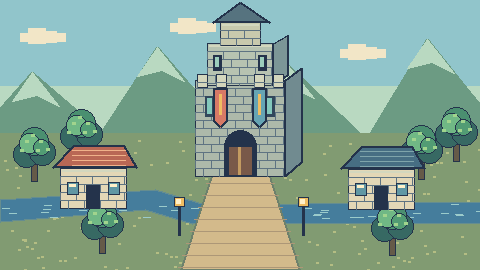
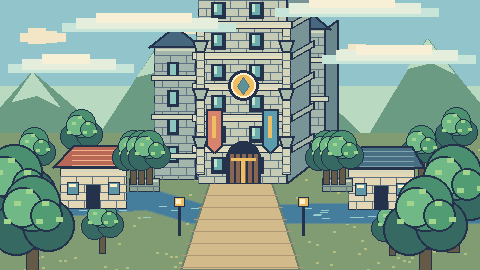
feat: polish monumental tower and queue accepted minigame actions

diff --git a/src/tower/PixelScene.tsx b/src/tower/PixelScene.tsx
@@ -1,9 +1,9 @@
-import {useEffect,useRef} from 'react';
+import {useEffect,useRef,useState} from 'react';
 import './pixel-scene.css';
 const root=`${import.meta.env.BASE_URL}assets/tower/`;
 export const TOWER_ART_URL=root;
 const identities=['moss','pip','fern','terra','flint','zephyr','rowan','warden'];
-function identity(id?:string){if(!id)return 'moss';if(identities.includes(id))return id;if(id==='hero'||id==='male')return 'hero-male';if(id==='female')return 'hero-female';if(id.startsWith('hero-'))return id;const n=Number(id.match(/\d+/)?.[0]??1);return id.includes('boss')?'warden':identities[(n-1)%identities.length]??'moss';}
+function identity(id?:string){if(!id)return 'moss';const aliases:Record<string,string>={'trainer-1':'moss','trainer-2':'pip','trainer-3':'fern','leader-leg':'terra','leader-arm':'flint','leader-back':'zephyr','rival':'rowan'};if(aliases[id])return aliases[id];if(identities.includes(id))return id;if(id==='hero'||id==='male')return 'hero-male';if(id==='female')return 'hero-female';if(id.startsWith('hero-'))return id;const n=Number(id.match(/\d+/)?.[0]??1);return id.includes('boss')?'warden':identities[(n-1)%identities.length]??'moss';}
 export function PixelCharacter({id,hero,variant='front',className=''}:{id?:string;hero?:'male'|'female';variant?:'front'|'back'|'title';className?:string}){const who=hero?`hero-${hero}`:identity(id);const view=variant==='back'&&who.startsWith('hero-')?'back':'front';return <img className={`pixel-character ${className}`} src={`${root}${who}-${view}-still.png`} alt={hero?`${hero} adventurer`:who} draggable={false}/>;}
 export function PixelIcon({name,className=''}:{name:string;className?:string}){const names=['leg','arm','back','coin','potion','shield','star','tower','bag','settings','play','pause'];return <img className={`pixel-icon ${className}`} src={`${root}icon-${names.includes(name)?name:'star'}.png`} alt="" aria-hidden="true"/>;}
 const definitions=[
@@ -15,8 +15,13 @@ export const MINIGAME_SCENES=Object.fromEntries(definitions.map(([id,title,instr
 type Draw=CanvasRenderingContext2D;
 const colors={ink:'#24334b',cream:'#fff0c9',gold:'#efbd62',mint:'#83c8ae',stone:'#a5b0ad',shadow:'#637c87'};
 function rect(g:Draw,x:number,y:number,w:number,h:number,c:string){g.fillStyle=c;g.fillRect(Math.round(x),Math.round(y),Math.round(w),Math.round(h));}
-function line(g:Draw,points:number[][],c:string,width=2){g.strokeStyle=c;g.lineWidth=width;g.beginPath();points.forEach(([x,y],i)=>i?g.lineTo(Math.round(x),Math.round(y)):g.moveTo(Math.round(x),Math.round(y)));g.stroke();}
-function shape(g:Draw,p:number[][],c:string){g.beginPath();p.forEach(([x,y],i)=>i?g.lineTo(Math.round(x),Math.round(y)):g.moveTo(Math.round(x),Math.round(y)));g.closePath();g.fillStyle=c;g.fill();g.strokeStyle=colors.ink;g.lineWidth=2;g.stroke();}
+function line(g:Draw,points:number[][],c:string,width=2){
+ for(let k=1;k<points.length;k++){let x=Math.round(points[k-1][0]),y=Math.round(points[k-1][1]);const x1=Math.round(points[k][0]),y1=Math.round(points[k][1]),dx=Math.abs(x1-x),sx=x<x1?1:-1,dy=-Math.abs(y1-y),sy=y<y1?1:-1;let error=dx+dy;for(let guard=0;guard<2000;guard++){rect(g,x-Math.floor(width/2),y-Math.floor(width/2),width,width,c);if(x===x1&&y===y1)break;const e=2*error;if(e>=dy){error+=dy;x+=sx;}if(e<=dx){error+=dx;y+=sy;}}}
+}
+function shape(g:Draw,p:number[][],c:string){
+ const low=Math.ceil(Math.min(...p.map(v=>v[1]))),high=Math.floor(Math.max(...p.map(v=>v[1])));for(let y=low;y<=high;y++){const xs:number[]=[];for(let i=0;i<p.length;i++){const a=p[i],b=p[(i+1)%p.length];if((a[1]<=y&&b[1]>y)||(b[1]<=y&&a[1]>y))xs.push(a[0]+(y-a[1])*(b[0]-a[0])/(b[1]-a[1]));}xs.sort((a,b)=>a-b);for(let i=0;i+1<xs.length;i+=2)rect(g,Math.ceil(xs[i]),y,Math.floor(xs[i+1])-Math.ceil(xs[i])+1,1,c);}line(g,[...p,p[0]],colors.ink,2);
+}
+function circle(g:Draw,x:number,y:number,r:number,c:string){for(let dy=-r;dy<=r;dy++){const dx=Math.floor(Math.sqrt(r*r-dy*dy));rect(g,x-dx,y+dy,dx*2+1,1,c);}}
 function block(g:Draw,x:number,y:number,w=32,h=24,c=colors.stone){rect(g,x,y,w,h,colors.ink);rect(g,x+2,y+2,w-4,h-4,c);rect(g,x+3,y+3,w-6,2,colors.cream);rect(g,x+3,y+h-5,w-6,3,colors.shadow);}
 function gem(g:Draw,x:number,y:number,s=16,c=colors.mint){shape(g,[[x,y-s],[x+s*.6,y],[x,y+s],[x-s*.6,y]],c);line(g,[[x,y-s+3],[x-3,y],[x,y+s-3]],colors.cream,2);}
 function flower(g:Draw,x:number,y:number,h:number,c=colors.gold){rect(g,x,y-h,2,h,'#49796d');for(const [dx,dy]of [[-4,0],[4,0],[0,-4],[0,4]])rect(g,x+dx-2,y-h+dy-2,5,5,c);rect(g,x-1,y-h-1,3,3,colors.cream);}
@@ -37,7 +42,7 @@ function drawMini(g:Draw,id:string,progress:number,target:number,side:string|und
  case 'assisted-lunge':rect(g,0,175,480,95,'#4f93af');for(let i=0;i<10;i++){const x=32+i*45,y=205+(i%2)*17;if(i<n)block(g,x,y,32,16,gold);else line(g,[[x,y+8],[x+25,y+8]],'#9fd4d1');}a(40+Math.max(0,n-1)*45,205+((Math.max(0,n-1))%2)*17);break;
  case 'lunge':for(let i=0;i<10;i++)block(g,55+i*35,220-i*12,35,270-(220-i*12),i<n?gold:'#9eaaa2');block(g,370,76,69,28);for(const x of [377,424])block(g,x,42,9,36);a(70+Math.min(9,n)*35,220-Math.min(9,n)*12);break;
  case 'sumo-squat':block(g,112,75,32,152);block(g,336,75,32,152);block(g,111,59,258,24);for(let i=0;i<2;i++){const x=i===0?144-p*61:240+p*61;block(g,x,83,96,144,'#8c6856');for(let y=98;y<222;y+=27)rect(g,x+4,y,88,4,gold);}a(240,243);break;
- case 'wall-sit':for(let i=0;i<5;i++){block(g,118+i*48,174+(i%2)*9,40,35,'#dac4a0');shape(g,[[112+i*48,174+(i%2)*9],[138+i*48,151+(i%2)*9],[164+i*48,174+(i%2)*9]],'#bd7766');}g.strokeStyle=gold;g.lineWidth=5;g.beginPath();g.arc(240,200,115,Math.PI,Math.PI+Math.PI*p);g.stroke();a(240,247);break;
+ case 'wall-sit':for(let i=0;i<5;i++){block(g,118+i*48,174+(i%2)*9,40,35,'#dac4a0');shape(g,[[112+i*48,174+(i%2)*9],[138+i*48,151+(i%2)*9],[164+i*48,174+(i%2)*9]],'#bd7766');}line(g,Array.from({length:Math.max(2,Math.round(p*80))},(_,i,)=>{const t=Math.PI+Math.PI*p*i/Math.max(1,Math.round(p*80)-1);return [240+Math.cos(t)*115,200+Math.sin(t)*115];}),gold,5);a(240,247);break;
  case 'reverse-lunge':block(g,112,68,256,155,'#526d78');for(let i=0;i<10;i++){const x=135+(i%5)*45,y=93+Math.floor(i/5)*77;block(g,x,y,32,16,i<n?gold:colors.stone);rect(g,x+(i%2?25:0),y+12,7,36,i<n?gold:colors.stone);}a(130+n*22,234);break;
  case 'tempo-squat':block(g,140,180,201,37,'#776c72');shape(g,[[170,159],[309,159],[284,178],[283,190],[201,190],[197,177]],'#b6bcc1');for(let i=0;i<6;i++)shape(g,[[90+i*7,220],[83+i*7,182-(i%2)*15],[96+i*7,205]],i<n?gold:'#bd7457');shape(g,[[194,151],[194+110*p,143],[205+110*p,150],[194+110*p,157]],gold);a(356,214);break;
  case 'single-leg-squat':for(let i=0;i<n+1;i++)block(g,220+(i%2?6:-6),221-i*14,48,14,i%2?gold:colors.stone);a(240,221-n*14);for(let i=0;i<4;i++)gem(g,110+i*85,68,8);break;
@@ -59,7 +64,7 @@ function drawMini(g:Draw,id:string,progress:number,target:number,side:string|und
  case 'snow-angels':a(240,195);for(let s=0;s<2;s++)for(let j=0;j<5;j++){const dir=s?1:-1;shape(g,[[240+dir*15,157],[240+dir*(30+j*17)*(0.4+p*.6),85+j*12],[240+dir*(29+j*17)*(0.4+p*.6),160+j*7]],j<n/2?gold:'#c8d6d1');}gem(g,240,80,15,gold);break;
  case 'pause-birddog':block(g,207,216,66,14);shape(g,[[240,151],[220,215],[260,215]],'#8b969f');line(g,[[133,155],[347,155]],gold,5);for(const x of [145,335]){line(g,[[x,155],[x-18,192],[x+18,192],[x,155]],colors.cream);gem(g,x,178,17,p>.5?gold:'#b3a0d1');}a(65,225);for(let i=0;i<n;i++)gem(g,174+i*15,100,5,gold);break;
  case 'alternating-superman':rect(g,0,210,480,60,'#c7d9d7');for(let i=0;i<10;i++){const x=35+i*45,y=i%2?164:111;rect(g,x-14,y+16,37,9,colors.cream);gem(g,x,y,9,i<n?gold:'#8ba3b1');}a(35+Math.min(9,n)*45,n%2?164:111);break;
- case 'tempo-extension':block(g,184,66,112,172,'#7a7c8c');g.fillStyle=gold;g.beginPath();g.arc(240,121,45,0,Math.PI*2);g.fill();g.fillStyle=colors.cream;g.beginPath();g.arc(240,121,36,0,Math.PI*2);g.fill();for(let i=0;i<12;i++)rect(g,238+Math.sin(i*Math.PI/6)*30,119-Math.cos(i*Math.PI/6)*30,3,3,colors.ink);line(g,[[240,121],[240+Math.sin(p*Math.PI*2)*27,121-Math.cos(p*Math.PI*2)*27]],colors.ink,4);line(g,[[240,168],[240+Math.sin(p*Math.PI*4)*20,210]],gold,3);gem(g,240+Math.sin(p*Math.PI*4)*20,210,9,gold);a(135,231);break;
+ case 'tempo-extension':block(g,184,66,112,172,'#7a7c8c');circle(g,240,121,45,gold);circle(g,240,121,36,colors.cream);for(let i=0;i<12;i++)rect(g,238+Math.sin(i*Math.PI/6)*30,119-Math.cos(i*Math.PI/6)*30,3,3,colors.ink);line(g,[[240,121],[240+Math.sin(p*Math.PI*2)*27,121-Math.cos(p*Math.PI*2)*27]],colors.ink,4);line(g,[[240,168],[240+Math.sin(p*Math.PI*4)*20,210]],gold,3);gem(g,240+Math.sin(p*Math.PI*4)*20,210,9,gold);a(135,231);break;
  case 'advanced-birddog':rect(g,0,219,480,51,'#c9d5df');shape(g,[[117,194],[363,194],[315,238],[173,238]],'#657c92');block(g,127,184,226,17);for(let i=0;i<6;i++)if(i<p*6)block(g,148+i*34,99,14,85,'#d2cfbb');if(p>.7)block(g,136,84,208,17,gold);if(p>.9)shape(g,[[126,84],[240,43],[354,84]],'#728fa1');a(240,184);break;
  default:a(240);break;
  }
@@ -67,8 +72,12 @@ function drawMini(g:Draw,id:string,progress:number,target:number,side:string|und
 }
 export type PixelSceneProps={scene:'hub'|'battle'|'title'|'minigame';hero?:'male'|'female';enemy?:string;zone?:number;skillId?:string;progress?:number;target?:number;side?:'left'|'right';paused?:boolean;className?:string};
 export default function PixelScene({scene,hero='male',enemy,zone=0,skillId='squat',progress=0,target=8,side,paused=false,className=''}:PixelSceneProps){
- const canvas=useRef<HTMLCanvasElement>(null),last=useRef(progress);const info=MINIGAME_SCENES[skillId]??MINIGAME_SCENES.squat;
- useEffect(()=>{if(scene!=='minigame'||!canvas.current)return;const g=canvas.current.getContext('2d');if(!g)return;g.imageSmoothingEnabled=false;const animate=progress>last.current&&!paused;last.current=progress;let raf=0;const start=performance.now();const render=(now:number)=>{const t=animate?Math.min(1,(now-start)/450):1;drawMini(g,skillId,progress,target,side,hero==='female',animate?t:0);if(t<1)raf=requestAnimationFrame(render);};render(start);return()=>cancelAnimationFrame(raf);},[scene,skillId,progress,target,side,hero,paused]);
+ const canvas=useRef<HTMLCanvasElement>(null),battleProgress=useRef(progress);const [striking,setStriking]=useState(false);useEffect(()=>{const increased=progress>battleProgress.current;battleProgress.current=progress;if(scene!=='battle'||paused||!increased)return;setStriking(true);const timer=setTimeout(()=>setStriking(false),420);return()=>clearTimeout(timer);},[progress,scene,paused]);const info=MINIGAME_SCENES[skillId]??MINIGAME_SCENES.squat;
+ const latestMini=useRef({progress,target,side,paused,hero});latestMini.current={progress,target,side,paused,hero};
+ const miniQueue=useRef<{skill:string;queued:number;shown:number;queue:number[]}>({skill:skillId,queued:progress,shown:progress,queue:[]});
+ useEffect(()=>{const q=miniQueue.current;if(q.skill!==skillId||progress<q.queued){miniQueue.current={skill:skillId,queued:progress,shown:progress,queue:[]};return;}for(let next=q.queued+1;next<=Math.min(progress,target);next++)q.queue.push(next);q.queued=progress;},[progress,target,skillId]);
+ useEffect(()=>{if(scene!=='minigame'||!canvas.current)return;const g=canvas.current.getContext('2d');if(!g)return;g.imageSmoothingEnabled=false;let raf=0,lastTime=performance.now(),elapsed=0,active:number|null=null,drawn='',previousQueue=miniQueue.current;
+ const render=(now:number)=>{const props=latestMini.current,q=miniQueue.current;if(q!==previousQueue){active=null;elapsed=0;drawn='';previousQueue=q;}const delta=Math.min(50,now-lastTime);lastTime=now;if(!props.paused){if(active===null&&q.queue.length){active=q.queue.shift()!;elapsed=0;}else if(active!==null)elapsed+=delta;}const pulse=active===null?0:Math.min(1,elapsed/420);const display=active??q.shown;const key=`${display}:${pulse}:${props.side}:${props.paused}`;if(key!==drawn){drawMini(g,skillId,display,props.target,props.side,props.hero==='female',pulse);drawn=key;}if(active!==null&&pulse>=1){q.shown=active;active=null;elapsed=0;}raf=requestAnimationFrame(render);};render(lastTime);return()=>cancelAnimationFrame(raf);},[scene,skillId]);
  if(scene==='minigame')return <figure className={`pixel-scene pixel-minigame ${paused?'is-paused':''} ${className}`} data-scene={skillId}><canvas ref={canvas} width={480} height={270} role="img" aria-label={`${info.title}: ${progress} of ${target} accepted units`}/><figcaption><strong>{info.title}</strong><span>{info.instruction}</span></figcaption></figure>;
- return <div className={`pixel-scene pixel-scene-${scene} ${className}`} data-scene={scene} role="img" aria-label={scene==='battle'?'Battle Tower arena':scene==='hub'?'Battle Tower and the surrounding valley':'Battle Tower title landscape'}><img className="pixel-scene-background" src={`${root}${scene==='battle'?`arena-${Math.abs(zone)%6}`:scene}.png`} alt=""/>{scene==='battle'?<><span className="pixel-combatant pixel-combatant-hero" key={`hero-${progress}`}><PixelCharacter hero={hero} variant="back"/></span><span className="pixel-combatant pixel-combatant-enemy" key={`enemy-${progress}`}><PixelCharacter id={enemy}/></span></>:scene==='title'?<div className="pixel-title-party"><PixelCharacter hero="male" variant="title"/><PixelCharacter hero="female" variant="title"/></div>:<img className="pixel-hub-hero" src={`${root}hero-${hero}-front-still.png`} alt=""/>}</div>;
+ return <div className={`pixel-scene pixel-scene-${scene} ${striking?'is-striking':''} ${className}`} data-scene={scene} role="img" aria-label={scene==='battle'?'Battle Tower arena':scene==='hub'?'Battle Tower and the surrounding valley':'Battle Tower title landscape'}><img className="pixel-scene-background" src={`${root}${scene==='battle'?`arena-${Math.abs(zone)%6}`:scene}.png`} alt=""/>{scene==='battle'?<><span className="pixel-combatant pixel-combatant-hero" key={`hero-${progress}`}><PixelCharacter hero={hero} variant="back"/></span><span className="pixel-combatant pixel-combatant-enemy" key={`enemy-${progress}`}><PixelCharacter id={enemy}/></span></>:scene==='title'?<div className="pixel-title-party"><PixelCharacter hero="male" variant="title"/><PixelCharacter hero="female" variant="title"/></div>:<img className="pixel-hub-hero" src={`${root}hero-${hero}-front-still.png`} alt=""/>}</div>;
 }

diff --git a/src/tower/pixel-scene.css b/src/tower/pixel-scene.css
@@ -1,1 +1,2 @@
 .pixel-scene{position:relative;isolation:isolate;aspect-ratio:16/9;width:100%;min-width:0;margin:0;overflow:hidden;background:#91c5cb;border:3px solid #24334b;box-shadow:0 3px 0 #14253b}.pixel-scene-background,.pixel-minigame canvas{display:block;width:100%;height:100%;object-fit:contain;image-rendering:pixelated}.pixel-character{display:block;width:100%;height:100%;object-fit:contain;image-rendering:pixelated;filter:drop-shadow(2px 2px 0 #24334b33)}.pixel-icon{width:28px;height:28px;object-fit:contain;image-rendering:pixelated;vertical-align:middle}.pixel-combatant{position:absolute;width:27%;aspect-ratio:1;transform:translate(-50%,-91.40625%);pointer-events:none}.pixel-combatant-hero{left:28.3333%;top:84.4444%;width:29%}.pixel-combatant-enemy{left:72.7083%;top:62.963%;width:23%}.pixel-combatant .pixel-character{animation:pixel-breathe 1.8s steps(2,end) infinite}.pixel-combatant-hero .pixel-character{animation-delay:-.6s}.pixel-title-party{position:absolute;bottom:0;left:5%;right:5%;height:67%;display:flex;justify-content:space-between;pointer-events:none}.pixel-title-party>.pixel-character{width:35%;height:100%;filter:drop-shadow(3px 3px 0 #24334b55)}.pixel-hub-hero{position:absolute;left:45%;top:64%;width:10%;height:auto;image-rendering:pixelated}.pixel-minigame figcaption{position:absolute;left:10px;right:10px;top:9px;display:flex;flex-direction:column;gap:3px;color:#24334b;text-shadow:1px 1px #fff0c9;background:#fff0c9e8;border:2px solid #24334b;padding:6px 10px;max-width:max-content;font-family:monospace;pointer-events:none}.pixel-minigame figcaption strong{font-size:clamp(12px,1.4vw,19px);letter-spacing:.04em}.pixel-minigame figcaption span{font-size:clamp(10px,1vw,14px)}.pixel-minigame.is-paused canvas{filter:saturate(.65)}@keyframes pixel-breathe{50%{transform:translateY(-1px)}}@media(prefers-reduced-motion:reduce){.pixel-combatant .pixel-character{animation:none}}@media(max-width:950px) and (max-height:500px){.pixel-minigame figcaption{padding:3px 6px;top:5px;left:5px}.pixel-minigame figcaption span{display:none}}
+.pixel-scene-battle.is-striking .pixel-combatant-hero .pixel-character{animation:pixel-strike .42s steps(5,end) both}.pixel-scene-battle.is-striking .pixel-combatant-enemy .pixel-character{animation:pixel-impact .42s steps(5,end) both}@keyframes pixel-strike{25%{transform:translate(8px,-3px)}50%{transform:translate(13px,-5px)}100%{transform:translate(0,0)}}@keyframes pixel-impact{30%{filter:brightness(1);transform:translateX(0)}50%{filter:brightness(2);transform:translateX(5px)}75%{filter:brightness(1.4);transform:translateX(-3px)}100%{filter:brightness(1);transform:translateX(0)}}@media(prefers-reduced-motion:reduce){.pixel-scene-battle.is-striking .pixel-character{animation:none}}

diff --git a/scripts/build-tower-art.py b/scripts/build-tower-art.py
@@ -91,7 +91,46 @@ def landscape(zone=0,hub=False):
    for dx in range(-rx+18,rx-12,18):box(d,(x+dx,y+8,x+dx+7,y+9),'#d8d0a9')
  return im
 for z in range(6):save(landscape(z),f'arena-{z}')
-save(landscape(0,True),'hub');save(landscape(4,True),'title')
+# Monumental tower continues above the frame; cloud banks articulate its height.
+def monumental(title=False):
+ im=landscape(0,True);d=ImageDraw.Draw(im)
+ # Tall side buttresses and terraces; different visible light planes.
+ for x,y,w in [(154,47,42),(286,29,39)]:
+  stone(d,x,y,w,132,'#a5b6ac');poly(d,[(x+w,y),(x+w+12,y-9),(x+w+12,167),(x+w,y+132)],'#69878c')
+  poly(d,[(x-5,y),(x+w//2,y-21),(x+w+5,y)],'#46677d')
+  for yy in range(y+15,155,28):
+   box(d,(x+13,yy,x+24,yy+16),INK);box(d,(x+16,yy+2,x+21,yy+13),'#8bc7bf')
+  for yy in range(y+28,171,39):stone(d,x-3,yy,w+6,5,'#d1d6ba')
+ # Main shaft leaves the top of the image rather than terminating in a small roof.
+ stone(d,198,-24,89,207,'#c5cbb4');poly(d,[(287,-24),(309,-40),(309,166),(287,183)],'#799497')
+ for yy in range(-10,164,31):
+  stone(d,192,yy,100,7,'#e4ddbd');poly(d,[(292,yy),(313,yy-12),(313,yy-5),(292,yy+7)],'#a4b4a6')
+  for xx in [211,249]:
+   box(d,(xx,yy+12,xx+14,yy+28),INK);box(d,(xx+3,yy+14,xx+10,yy+24),'#6eadae');box(d,(xx+3,yy+14,xx+5,yy+21),'#c0e5cd')
+ for x in [196,282]:
+  stone(d,x,28,8,146,'#d4d5b9')
+  for yy in [40,88,136]:poly(d,[(x-3,yy),(x+11,yy),(x+7,yy+12),(x+1,yy+12)],'#a7b9a8')
+ # Carved central medallion and three training standards.
+ d.ellipse((228,70,258,100),fill=INK);d.ellipse((231,73,255,97),fill=GOLD,outline=LIGHT,width=2)
+ poly(d,[(243,77),(249,86),(243,94),(237,86)],'#5d9298',o='#527582',width=1)
+ for xx,c in [(207,'#d8836d'),(263,'#5b9caf')]:
+  poly(d,[(xx,109),(xx+14,109),(xx+14,146),(xx+7,153),(xx,146)],c);box(d,(xx+5,116,xx+8,137),GOLD)
+ d.ellipse((226,141,260,175),fill=INK);box(d,(226,157,260,183),INK)
+ for x in range(230,258,6):box(d,(x,154,x+3,182),'#8a6552')
+ box(d,(231,158,255,160),GOLD);box(d,(241,161,244,182),GOLD)
+ # Terraces, planted beds, and hand-shaped canopy highlights add depth.
+ for x in [129,322]:
+  stone(d,x,178,30,13,'#8da493')
+  for dx in [4,12,20]:tree(d,x+dx,181,1)
+ for x,y in [(14,246),(453,246),(32,277),(425,277)]:tree(d,x,y,2)
+ # Pixel clouds wind behind the foreground architecture and cross the high shaft.
+ for x,y,w in [(8,56,125),(322,47,153),(62,15,173),(275,0,163)]:
+  box(d,(x,y+8,x+w,y+16),'#c8e5da');box(d,(x+14,y+3,x+w-18,y+13),'#e5eedc');box(d,(x+34,y-2,x+w-44,y+7),'#f7f0d6')
+ if title:
+  for x,y,w in [(111,42,109),(268,82,116)]:
+   box(d,(x,y+7,x+w,y+13),'#cee4d5');box(d,(x+9,y+2,x+w-13,y+9),'#eff0d5');box(d,(x+30,y-3,x+w-31,y+4),'#fff1d5')
+ return im
+save(monumental(),'hub');save(monumental(True),'title')
 
 # Human figures drawn in native 128px cells with fixed foot anchor, separate anatomical poses.
 def character(kind=0,back=False,frame=0):
@@ -110,7 +149,7 @@ def character(kind=0,back=False,frame=0):
  poly(d,[(cx-9,43),(cx+8,42),(cx+10,69),(cx-11,69)],'#e9dcb8' if kind<2 else hi)
  box(d,(cx-18,71,cx+17,77),'#594b49',INK);box(d,(cx-3,71,cx+3,76),GOLD,INK)
  # Arms: poised runner / guard / martial / staff silhouettes.
- if kind in [3,6,9]:
+ if kind in [0,1,3,6,9]:
   poly(d,[(cx-shoulder,43),(cx-shoulder-8,54),(cx-34,44),(cx-37,34),(cx-28,30),(cx-22,43),(cx-15,52)],skin)
   poly(d,[(cx+shoulder,44),(cx+36,59),(cx+32,69),(cx+16,57)],skin)
   box(d,(cx-38,30,cx-28,41),coat,INK);box(d,(cx+25,60,cx+35,70),coat,INK)
